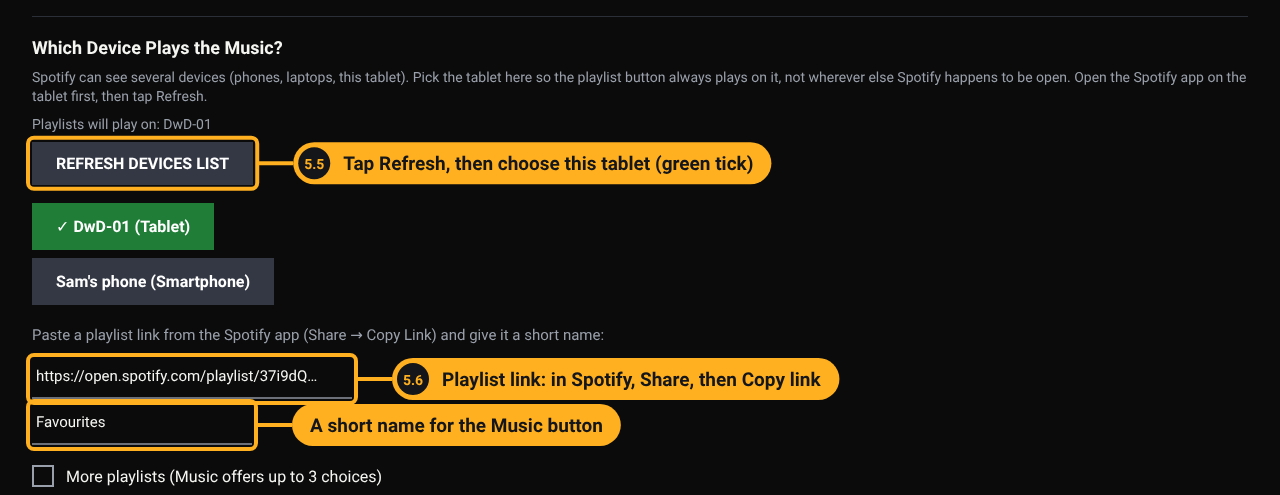
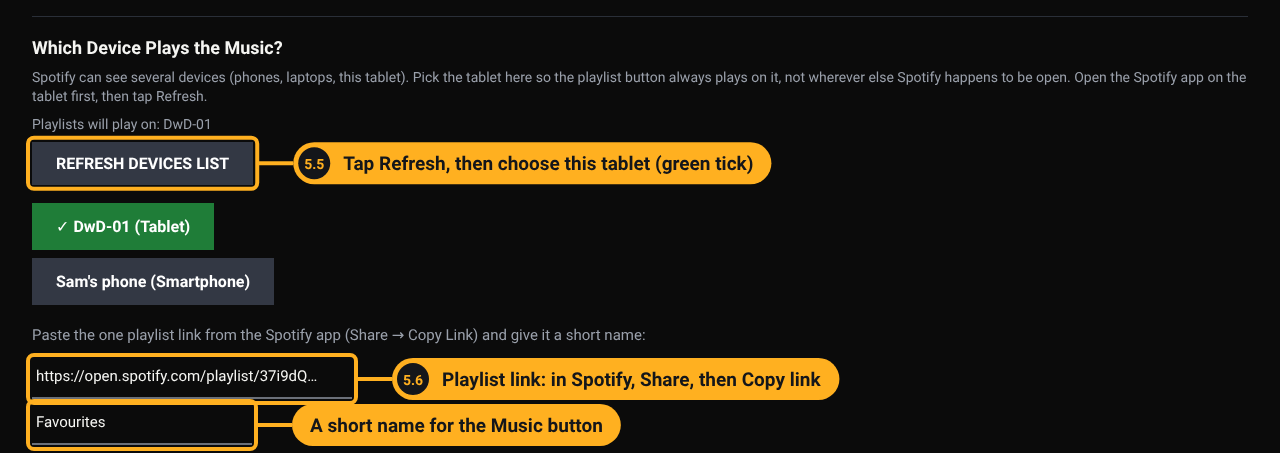
Align the guides and pictures with Build 43, the released and tested build
Removes More playlists, the music choice screen and Clear Spotify details,
which arrive in a later build. The README says the source is ahead of the
release and that the guides describe Build 43.

Claude-Session: https://claude.ai/code/session_018ro43wPJNQVLAgVoYpSyBK

Changed region(s): [[0.0, 0.0309, 1.0, 1.0]]

diff --git a/docs/TABLET-SETUP-TECHNICAL.md b/docs/TABLET-SETUP-TECHNICAL.md
@@ -8,6 +8,8 @@ This guide needs a computer, command-line tools and a wiped tablet. Most familie
 
 # Setting up a tablet: locked-down (kiosk) setup
 
+Written for **Build 43**, the current release.
+
 This is the **locked-down** setup, for care homes or anyone likely to wander out of the app. It needs a computer and wipes the tablet. For a simpler setup with no computer, see [GETTING-STARTED.md](GETTING-STARTED.md); that guide also explains how to create the Spotify developer app you need in step 9 below.
 
 **Do these steps in this order, on a freshly reset tablet.** The order matters. Android will only let this app become the tablet's "Device Owner" while there are **no accounts on the tablet**: no Google account, and no Spotify. Add a Google account first and the tablet has to be wiped and started again.
@@ -53,9 +55,9 @@ Tap **Allow** on the tablet (tick "Always allow from this computer"). Run `adb d
 Check the file is the one that was published, then install it. Replace the file name with the one you downloaded:
 
 ```
-shasum -a 256 DancingwithDementia-44.apk          # Mac or Linux
-certutil -hashfile DancingwithDementia-44.apk SHA256   # Windows
-adb install DancingwithDementia-44.apk
+shasum -a 256 DancingwithDementia-43.apk          # Mac or Linux
+certutil -hashfile DancingwithDementia-43.apk SHA256   # Windows
+adb install DancingwithDementia-43.apk
 ```
 
 Compare the checksum with the one published for that build on the releases page. The install should end with `Success`.
@@ -63,7 +65,7 @@ Compare the checksum with the one published for that build on the releases page.
 **Android 15 or newer:** if the install fails with a message about the app being built for an older version of Android, use this instead. Current builds need it until the next build raises the app's target version.
 
 ```
-adb install --bypass-low-target-sdk-block DancingwithDementia-44.apk
+adb install --bypass-low-target-sdk-block DancingwithDementia-43.apk
 ```
 
 ## 5. Make the app the Device Owner
@@ -142,7 +144,7 @@ Menu names vary between makes and Android versions. If a setting isn't where thi
 
 ## 8. Open the app
 
-1. Make it the Home app. With the tablet still plugged in: `adb shell cmd package set-home-activity com.seven7genanalytics.dancingwithdementia/.MainActivity`, or Settings, Apps, Default apps, Home app, **Music Player** (the app's name on the tablet in current builds). From Build 44 the app also fixes this itself as Device Owner, so it can't be changed by mistake.
+1. Make it the Home app. With the tablet still plugged in: `adb shell cmd package set-home-activity com.seven7genanalytics.dancingwithdementia/.MainActivity`, or Settings, Apps, Default apps, Home app, **Music Player** (the app's name on the tablet in current builds).
 2. Long-press the faint gear icon (top right, about 1.5 seconds) to open the Tablet Menu, then **Family Setup**.
 
    ![The main screen with the faint setup cog in the top right corner ringed: press and hold it for about one and a half seconds.](images/main-landscape.png)
@@ -168,7 +170,7 @@ The numbers on these pictures match step 5 of [GETTING-STARTED.md](GETTING-START
 ![Family Setup, Spotify part: the Client ID box, Get Login Link, and the box for pasting the Example Domain address, then Submit Code.](images/family-setup-2-spotify-login.png)
 
 1. **Family Setup, Exit Kiosk Mode.** This lets you switch between the Spotify app, the browser and this app while setting up.
-2. If the tablet has anyone else's playlists, book or login on it (for example from a previous owner or a test), tap **Clear Spotify details** twice. The login, device, playlists and book are removed. The Client ID, name and PIN stay.
+2. If the tablet has anyone else's Spotify details on it (for example from a previous owner or a test), you will replace them in the steps below: your Client ID goes over theirs, the login in step 5 replaces theirs, and your playlist links go over the old ones.
 3. **Open the Spotify app** and check it is signed in with this tablet's account (Spotify, Settings shows the account). Play any song for a few seconds, then stop it. This registers the tablet with Spotify.
 4. Back in **Family Setup**, in the **Spotify Playlist** section, paste your Client ID into **Spotify Client ID** and tap **Save Client ID**. If a code is already there, replace it with yours unless you know it is yours.
 5. Tap **Get Login Link**. The browser opens Spotify's login page. Log in with **this tablet's account** and tap **Agree**.
@@ -181,9 +183,8 @@ The numbers on these pictures match step 5 of [GETTING-STARTED.md](GETTING-START
 ![Family Setup, device and playlist part: Refresh Devices List with this tablet ticked in green, then the playlist link and its short button name.](images/family-setup-3-device-playlist.png)
 
 7. **Playlist:** in the Spotify app, open the playlist, tap the three dots, **Share, Copy link**. Paste it into **Playlist link** and type a short button name (e.g. Favourites).
-   - For more than one playlist, tick **More playlists** and fill in the second and third slots the same way.
 8. **Audiobook (optional):** copy the book's link the same way, paste it into **Audiobook link**, and give it a name. Leave both boxes empty if there's no book; the Book button then doesn't appear.
-![Family Setup, audiobook part: the audiobook link and name, Save Playlists, and Clear Spotify details.](images/family-setup-4-book-save.png)
+![Family Setup, audiobook part: the audiobook link and name, and Save Playlists.](images/family-setup-4-book-save.png)
 
 9. Tap **Save Playlists**. It should say how many items were saved, or explain what's wrong with a link.
 
@@ -198,13 +199,14 @@ The numbers on these pictures match step 5 of [GETTING-STARTED.md](GETTING-START
 ![Family Setup, top of the page: the person's name and Save Name, and Set PIN, which is done last of all.](images/family-setup-1-name-pin.png)
 
 1. Type the person's name and tap **Save Name**. It shows at the top of the main screen.
-2. Tap **Re-enter Kiosk Mode**, close Family Setup, and test every button on the main screen: Music (and each choice, if several), Book, Play, Stop, Back, Next, Louder, Quieter.
+2. Tap **Re-enter Kiosk Mode**, close Family Setup, and test every button on the main screen: Music, Book, Play, Stop, Back, Next, Louder, Quieter.
 3. **Last of all:** Tablet Menu, Family Setup, **Set PIN**. Enter a 4-digit PIN twice. Write it down somewhere safe, and give it only to the family members or staff who need it.
 4. Close Family Setup. The tablet is ready.
 
 ## Good to know
 
-- **Getting to Android's own settings:** Tablet Menu, **Tablet Settings** (needs the PIN). This unlocks the kiosk and opens the tablet's normal home screen. From Build 44 the lock comes back on its own when the app is returned to. On older builds, use **Restart App** in the Tablet Menu, or restart the tablet.
+- **Getting to Android's own settings:** Tablet Menu, **Tablet Settings** (needs the PIN). This unlocks the kiosk and opens the tablet's normal home screen. To lock it again afterwards, use **Restart App** in the Tablet Menu, or restart the tablet.
 - **Updates:** a new build signed with the same release key installs over the top (`adb install -r`, or from the releases page). Device Owner and Family Setup are kept.
+- **Fix Spotify on a locked-down tablet:** if Android's Spotify page doesn't open while the kiosk is locked, go in through **Tablet Settings** instead: Apps, Spotify, **Force stop**, then **Restart App** to lock the tablet again.
 - **Undoing Device Owner:** the only way is a factory reset. That is deliberate. It stops anyone switching the kiosk off by accident.
 - **What the on-screen messages mean:** see the table in [CARERS-GUIDE.md](CARERS-GUIDE.md#what-the-words-at-the-top-mean).

diff --git a/docs/GETTING-STARTED.md b/docs/GETTING-STARTED.md
@@ -1,6 +1,6 @@
 # Getting started
 
-This guide is for a family member, friend or volunteer setting up Dancing with Dementia for someone they care about. You don't need to be technical. Allow about an hour the first time.
+This guide is for a family member, friend or volunteer setting up Dancing with Dementia (Build 43) for someone they care about. You don't need to be technical. Allow about an hour the first time.
 
 Dancing with Dementia turns an Android tablet into a very simple music and audiobook player: a few large buttons, nothing to get lost in, and no need for the person to find their way around Spotify or a phone. You set it up once with their music, and from then on it just plays.
 
@@ -15,7 +15,7 @@ It is free, open source software (Apache 2.0 licence). It is not a medical produ
 - **An Android tablet.** Android 9 or newer. This is a good use for an old tablet sitting in a drawer: the app is built to be light, and it is tested and running day to day on an Android 9 tablet (a Neocore N1+). A stand and a charger it can live on are a big help.
 - **A Wi-Fi connection** where the tablet will live, and the Wi-Fi name and password. Spotify streams the music over the internet, so without Wi-Fi the buttons can't play anything.
 - **A Spotify Premium account for this tablet.** Premium is needed for one app to control another's playback. Use one account per tablet: a Spotify account can only play on one device at a time.
-- **The person's music:** a Spotify playlist (up to three), and optionally one audiobook. If you need help choosing songs, [Playlist for Life](https://www.playlistforlife.org.uk/) has free guidance on building a personal playlist.
+- **The person's music:** one Spotify playlist, and optionally one audiobook. If you need help choosing songs, [Playlist for Life](https://www.playlistforlife.org.uk/) has free guidance on building a personal playlist.
 - **A computer** for one step (creating your Spotify developer app, step 1). A phone works too, but a bigger screen is easier.
 
 ## Choose how locked down the tablet should be
@@ -53,7 +53,7 @@ Things to know about Spotify's rules (as of 2026; Spotify does change them):
 ## 2. Install the app on the tablet
 
 1. On the tablet, open **Chrome** and go to **github.com/7GenAnalytics/DancingwithDementia-releases/releases**.
-2. Under the newest build, open **Assets** and tap the file named `DancingwithDementia-` followed by the build number and `.apk`.
+2. Under **Build 43**, open **Assets** and tap the file named `DancingwithDementia-43.apk`.
 3. Android warns about installing apps from outside the Play Store. This is expected. Tap **Settings**, switch on **Allow from this source**, then go back.
 4. Tap **Install**. If Play Protect says it doesn't recognise the app, choose **More details**, then **Install anyway**.
 5. Afterwards, switch that permission back off: Settings, Apps, Chrome, Install unknown apps.
@@ -103,9 +103,8 @@ Family Setup is one long page: scroll down through it. The numbers on the pictur
 
 5. **Which Device Plays the Music?** Tap **Refresh Devices List** and choose this tablet; it turns green with a tick. If it isn't listed, play a song in the Spotify app again, then refresh. Choosing the tablet here stops the music playing on someone's phone by mistake.
 6. **Playlist.** In the Spotify app, open the playlist, tap the three dots, then **Share**, **Copy link**. Paste it into **Playlist link** and give the button a short name, such as *Favourites* or *Dancing*.
-   - For up to three playlists, tick **More playlists** and fill in the other two the same way. The Music button will then offer a choice.
 
-![Family Setup, audiobook part: the audiobook link and name (5.7), Save Playlists (5.8), and Clear Spotify details, which is only for wiping someone else's Spotify login and playlists.](images/family-setup-4-book-save.png)
+![Family Setup, audiobook part: the audiobook link and name (5.7), and Save Playlists (5.8).](images/family-setup-4-book-save.png)
 
 7. **Audiobook (optional).** Copy the book's link the same way, paste it into **Audiobook link** and give it a name. Leave it empty and the Book button doesn't appear.
 8. Tap **Save Playlists**. It says how many items were saved, or explains what is wrong with a link.
@@ -114,11 +113,11 @@ Family Setup is one long page: scroll down through it. The numbers on the pictur
 
 9. **Name.** Scroll back to the top, type the person's name and tap **Save Name**. The main screen then reads, for example, *Pat's Music*.
 
-You can skip **Music Folder**: it is only for music files saved on the tablet instead of Spotify. Leave **Clear Spotify details** alone unless the tablet has someone else's Spotify login or playlists on it.
+You can skip **Music Folder**: it is only for music files saved on the tablet instead of Spotify. If the tablet was used before and has someone else's Spotify details, paste your own Client ID over theirs, log in again with this tablet's account, and paste your playlist links over the old ones.
 
 ## 6. Test, then set the PIN last
 
-1. Close Family Setup and try every button: **Music** (and each choice, if there are several), **Book**, **Play**, **Stop**, **Back**, **Next**, **Louder**, **Quieter**.
+1. Close Family Setup and try every button: **Music**, **Book**, **Play**, **Stop**, **Back**, **Next**, **Louder**, **Quieter**.
 2. **Last of all**, open Family Setup again and tap **Set PIN**. Enter a 4-digit PIN twice. Without a PIN, anyone who finds the gear can change the setup. Write it down somewhere safe and share it only with people who need it.
 
 The PIN is a gentle lock to stop accidental changes, not strong security: it is stored on the tablet as plain text.

diff --git a/README.md b/README.md
@@ -12,7 +12,7 @@ Contact: dancing@7genanalytics.com
 
 ## What it does
 
-- Plays a Spotify playlist and a Spotify audiobook (or a folder of music files on the tablet). An optional "More playlists" tick box in Family Setup lets the Music button offer up to three named playlists
+- Plays one Spotify playlist and one Spotify audiobook (or a folder of music files on the tablet)
 - Runs on Android 9 and newer, so it gives old tablets a new job. It is tested and in daily use on an Android 9 tablet
 - Big, high-contrast buttons sized to the screen
 - Runs as the tablet's home screen, so it comes back on its own after a restart or power cut
@@ -36,5 +36,8 @@ Contact: dancing@7genanalytics.com
 Deployment-specific values (Spotify Client ID, default playlist and book) never go in this repository. Put them in `local/res/values/config_defaults.xml`, which is git-ignored; the build overlays it on the empty committed file. Without it, the app simply starts unconfigured and Family Setup is used instead.
 
 ## Releases
+
+**The released, tested build is Build 43**, and the guides in `docs/` describe it. The source code in this repository has moved on (Build 45, not yet released or tested on a tablet): it adds up to three playlists, a Clear Spotify details button, kiosk improvements and the build number on screen. It will be released, and the guides updated, once it has been tested.
+
 
 Finished, signed APKs are published at [DancingwithDementia-releases](https://github.com/7GenAnalytics/DancingwithDementia-releases). Signing keys are never stored in either repository.

diff --git a/docs/CARERS-GUIDE.md b/docs/CARERS-GUIDE.md
@@ -10,7 +10,7 @@ The tablet plays the person's own music and, if one was added, an audiobook. It 
 
 | Button | What it does |
 | --- | --- |
-| **Music** | Starts their music. If the family set up more than one playlist, it offers a choice. |
+| **Music** | Starts their music. |
 | **Book** | Starts their audiobook. Only there if a book was added. |
 | **Play** | Carries on from where it stopped. |
 | **Stop** | Pauses, keeping the place. Press Play to carry on. |
@@ -50,7 +50,7 @@ Try these in order. Most problems are fixed by step 1 or 2.
 2. **Restart App.** Press and hold the cog, then tap **Restart App**. No PIN needed.
 3. **Fix Spotify.** Press and hold the cog, tap **Fix Spotify**, then **Force stop** and **OK**. Press the tablet's Home button to come back, then press Music. Spotify starts again by itself.
 4. **Restart the tablet.** Hold the power button and choose **Restart**. The app comes back by itself.
-5. **Still not right?** Contact the family, using the details at the bottom of this page. From Build 45, it helps to tell them the build number, shown in small grey letters at the bottom of the Tablet Menu.
+5. **Still not right?** Contact the family, using the details at the bottom of this page.
 
 ### What the words at the top mean
 

diff --git a/docs/images/README.md b/docs/images/README.md
@@ -1,6 +1,6 @@
 # Screen images
 
-These pictures show the Build 44 screens, including Family Setup (shown part-way through a simple setup, cut into four parts down the page). They are drawn directly from the app's own layout (`res/layout/activity_main.xml`), colours (`res/drawable/`) and button-sizing code (`MainActivity.sizeButtons()`) at a typical 10-inch tablet size (1280 x 800), so a real tablet looks the same apart from button sizes, which adjust to each screen.
+These pictures show the Build 43 screens, including Family Setup (shown part-way through a simple setup, cut into four parts down the page). They are drawn directly from the app's own layout (`res/layout/activity_main.xml`), colours (`res/drawable/`) and button-sizing code (`MainActivity.sizeButtons()`) at a typical 10-inch tablet size (1280 x 800), so a real tablet looks the same apart from button sizes, which adjust to each screen.
 
 The orange callouts are added for the guides; they don't appear on the tablet. Names, songs and playlist names are examples.
 
